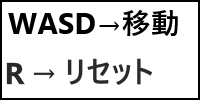
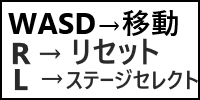
セレクト画面作成

diff --git a/User/SCENE/GameScene.cpp b/User/SCENE/GameScene.cpp
@@ -60,6 +60,18 @@ void GameScene::Initialize(DirectXCommon* dxCommon, Input* input) {
 	titleSprite->SetSize({ 1280.0f, 720.0f });
 	spriteCommon->LoadTexture(5, "Title.png");
 	titleSprite->SetTextureIndex(5);
+	//ステージセレクト
+	selectSprite->Initialize(spriteCommon);
+	selectSprite->SetPozition({ 0,0 });
+	selectSprite->SetSize({ 1280.0f, 720.0f });
+	spriteCommon->LoadTexture(22, "select.png");
+	selectSprite->SetTextureIndex(22);
+	//操作説明の選択枠
+	takuSprite->Initialize(spriteCommon);
+	takuSprite->SetPozition({ 137,106 });
+	takuSprite->SetSize({ 145.0f, 186.0f });
+	spriteCommon->LoadTexture(23, "taku.png");
+	takuSprite->SetTextureIndex(23);
 	//クリア
 	clearSprite->Initialize(spriteCommon);
 	clearSprite->SetPozition({ 0,0 });
@@ -226,6 +238,7 @@ void GameScene::Update() {
 	{
 	case SceneNo::TITLE:
 		if (sceneNo_ == SceneNo::TITLE) {
+
 			if (soundCheckFlag == 0) {
 				//タイトルBGM再生
 
@@ -235,42 +248,64 @@ void GameScene::Update() {
 			}
 			
 			//シーン切り替え
-			if (input->TriggerKey(DIK_SPACE) || input->ButtonInput(RT)) {
+			if (input->TriggerKey(DIK_SPACE)) {
 				sceneNo_ = SceneNo::STAGESELECT;
-
-				if (soundCheckFlag2 == 0) {
-					//タイトルBGM再生
-
-					pSourceVoice[1] = audio->PlayWave("open.wav");
-					pSourceVoice[1]->SetVolume(0.4f);
-					soundCheckFlag2 = 1;
-				}
+				//ステージ選択時の効果音
+				pSourceVoice[1] = audio->PlayWave("open.wav");
+				pSourceVoice[1]->SetVolume(0.4f);
+				soundCheckFlag2 = 1;
 
 			}
 		}
 		break;
 	case SceneNo::STAGESELECT:
+		if (input->TriggerKey(DIK_L)) {
+
+			sceneNo_ = SceneNo::TITLE;
+		}
+		if (soundCheckFlag3 == 1) {
+			//ゲームシーンの音楽を止める
+			pSourceVoice[2]->Stop();
+			soundCheckFlag3 = 0;
+		}
+		if (soundCheckFlag == 0) {
+			//タイトルBGM再生
+
+			pSourceVoice[0] = audio->PlayWave("Title.wav");
+			pSourceVoice[0]->SetVolume(0.3f);
+			soundCheckFlag = 1;
+		}
+		
 		if (input->TriggerKey(DIK_A)) {
 			if (stageNmb > 0) {
+				selectCount--;
 				stageNmb--;
 			}
 		}
 		if (input->TriggerKey(DIK_D)) {
 			if (stageNmb < 8) {
+				selectCount++;
 				stageNmb++;
 			}
 		}
 		if (input->TriggerKey(DIK_W)) {
 			if (stageNmb > 3) {
+				selectCount -= 4;
 				stageNmb -= 4;
 			}
 		}
 		if (input->TriggerKey(DIK_S)) {
 			if (stageNmb < 4) {
+				selectCount += 4;
 				stageNmb += 4;
 			}
 		}
 		if (input->TriggerKey(DIK_SPACE)) {
+			//ステージ選択時の効果音
+			pSourceVoice[1] = audio->PlayWave("open.wav");
+			pSourceVoice[1]->SetVolume(0.4f);
+			soundCheckFlag2 = 1;
+			
 			sceneNo_ = SceneNo::GAME;
 		}
 		break;
@@ -356,6 +391,11 @@ void GameScene::Update() {
 
 			elementMna->SetPlayer(player_);
 			elementMna->Update(player_->GetWorldPosition());
+
+			if (input->TriggerKey(DIK_L)) {
+				
+				sceneNo_ = SceneNo::STAGESELECT;
+			}
 		}
 	}
 }
@@ -368,41 +408,67 @@ void GameScene::Draw() {
 		titleSprite->Draw();
 
 	}
-
+	if (sceneNo_ == SceneNo::STAGESELECT) {
+		selectSprite->Draw();
+		takuSprite->Draw();
+		if (selectCount == 1) {
+			takuSprite->SetPozition({ 137,106 });
+		}else if (selectCount == 2) {
+			takuSprite->SetPozition({ 431,106 });
+		}
+		else if (selectCount == 3) {
+			takuSprite->SetPozition({ 737,106 });
+		}
+		else if (selectCount == 4) {
+			takuSprite->SetPozition({ 1042,106 });
+		}
+		else if (selectCount == 5) {
+			takuSprite->SetPozition({ 137,456 });
+		}
+		else if (selectCount == 6) {
+			takuSprite->SetPozition({ 431,456 });
+		}
+		else if (selectCount == 7) {
+			takuSprite->SetPozition({ 737,456 });
+		}
+		else if (selectCount == 8) {
+			takuSprite->SetPozition({ 1042,456 });
+		}
+	}
 
 	if (sceneNo_ == SceneNo::GAME) {
 		wakuSprite->Draw();
 		setumeiSprite->Draw();
 		sousaSprite->Draw();
-		if (stageCount == 1) {
+		if (stageNmb == 0) {
 			HHSprite->Draw();
 			stage1Sprite->Draw();
 		}
-		else if (stageCount == 2) {
+		else if (stageNmb == 1) {
 			H2OSprite->Draw();
 			stage2Sprite->Draw();
 		}
-		else if (stageCount == 3) {
+		else if (stageNmb == 2) {
 			H2O2Sprite->Draw();
 			stage3Sprite->Draw();
 		}
-		else if (stageCount == 4) {
+		else if (stageNmb == 3) {
 			H2OSprite->Draw();
 			stage4Sprite->Draw();
 		}
-		else if (stageCount == 5) {
+		else if (stageNmb == 4) {
 			H2O2Sprite->Draw();
 			stage5Sprite->Draw();
 		}
-		else if (stageCount == 6) {
+		else if (stageNmb == 5) {
 			N2H4Sprite->Draw();
 			stage6Sprite->Draw();
 		}
-		else if (stageCount == 7) {
+		else if (stageNmb == 6) {
 			CH4Sprite->Draw();
 			stage7Sprite->Draw();
 		}
-		else if (stageCount == 8) {
+		else if (stageNmb == 7) {
 			CH4OSprite->Draw();
 			stage8Sprite->Draw();
 		}

diff --git a/User/SCENE/GameScene.h b/User/SCENE/GameScene.h
@@ -97,6 +97,10 @@ private:	//メンバ変数
 
 	Sprite* titleSprite = new Sprite();
 
+	Sprite* selectSprite = new Sprite();
+
+	Sprite* takuSprite = new Sprite();
+
 	//元素
 	Sprite* HHSprite = new Sprite();
 	Sprite* H2OSprite = new Sprite();
@@ -130,6 +134,8 @@ private:	//メンバ変数
 
 	//クリア
 	Sprite* clearSprite = new Sprite();
+	//セレクトカウント
+	int selectCount = 1;
 
 	//ステージカウント
 	int stageCount = 1;
